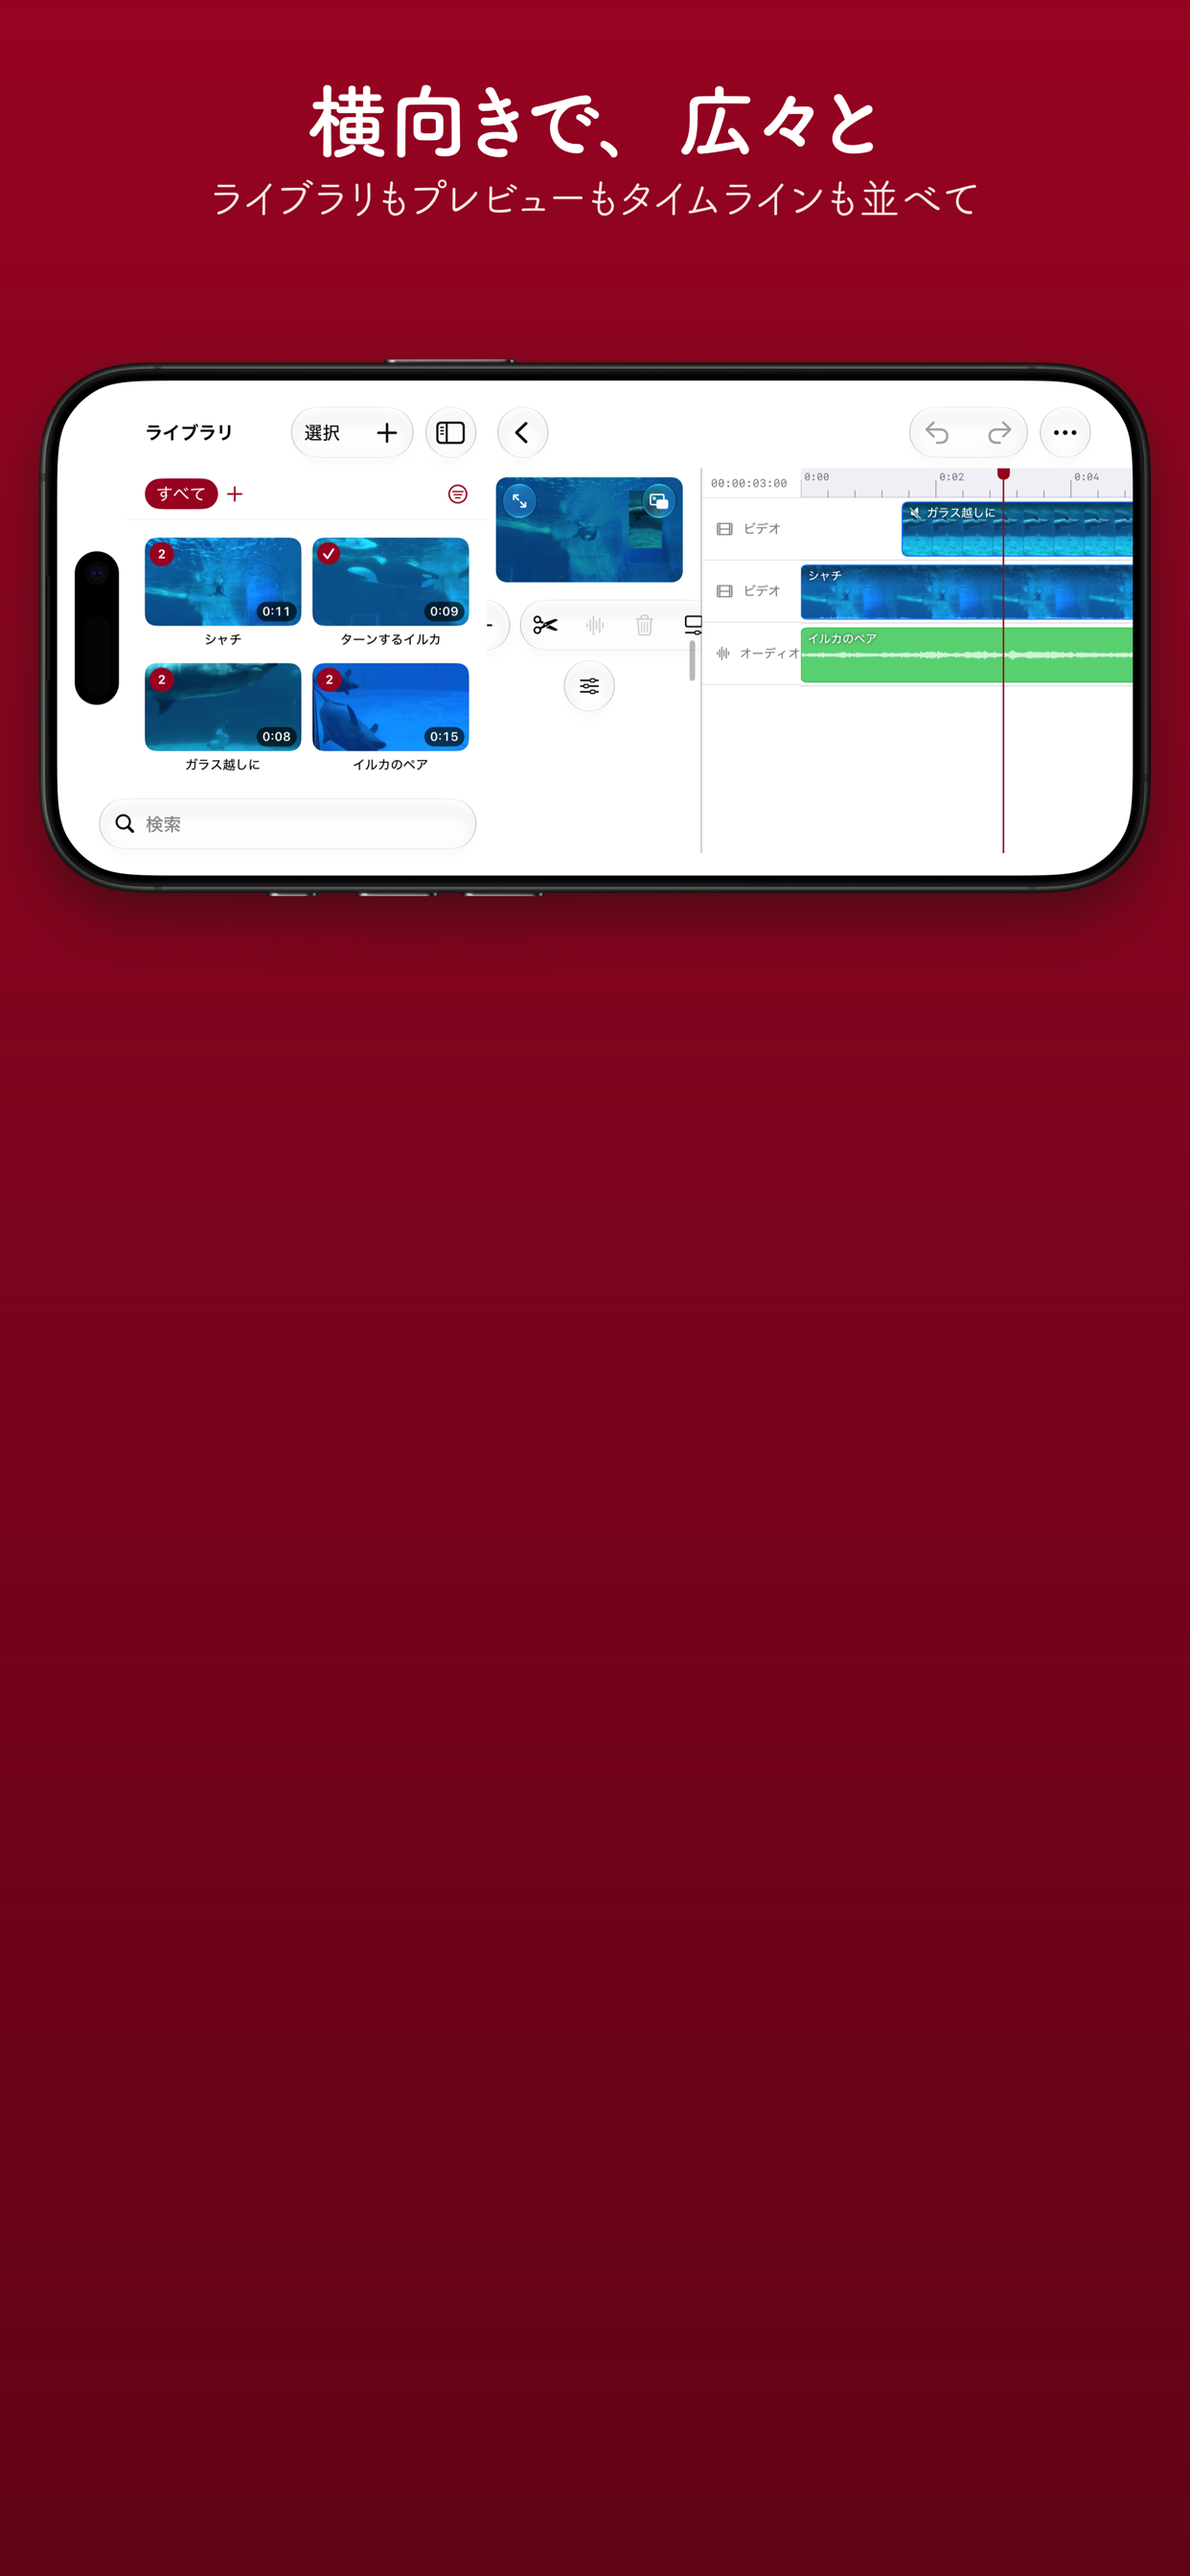
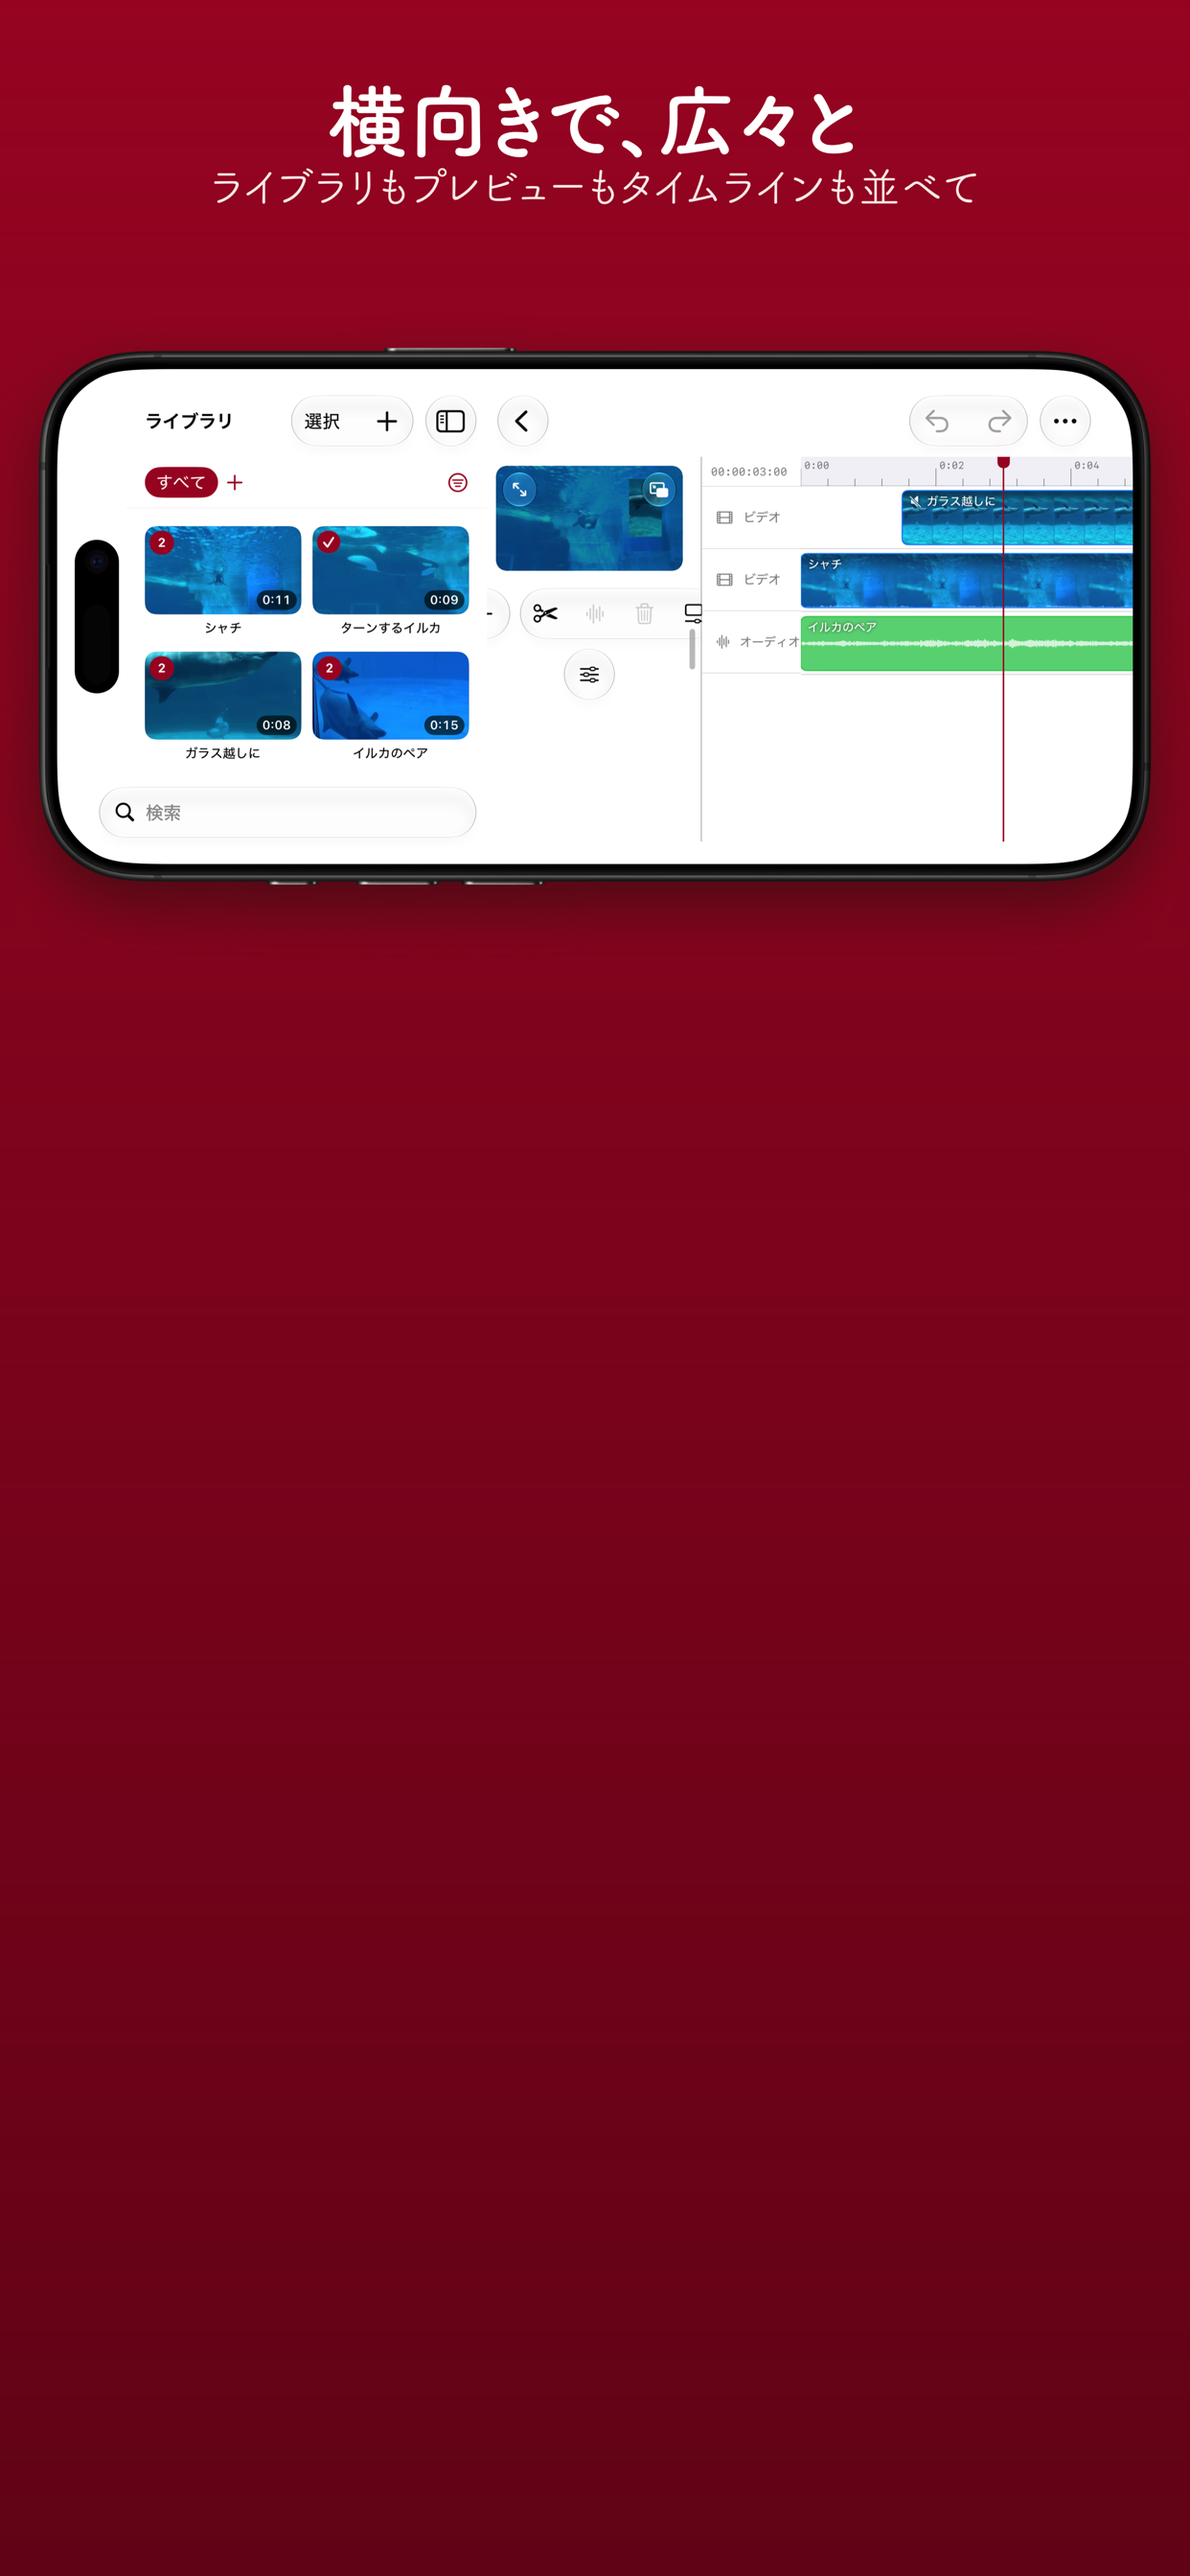
Set the Japanese captions in Tsukushi directly, as through a cascade list its commas stay full width

diff --git a/Assets/App Store/compose.swift b/Assets/App Store/compose.swift
@@ -153,47 +153,53 @@ let macScreenshots = [
 
 // MARK: - Text
 
-/// SF Pro Rounded. It has no Japanese, so that falls back to Tsukushi A Round
-/// Gothic, which unlike Hiragino Maru Gothic comes in a bold to match the header.
-/// Its kana are set proportionally: full-width, they look spaced out.
-func roundedFont(ofSize size: CGFloat, weight: NSFont.Weight) -> NSFont {
-    let system = NSFont.systemFont(ofSize: size, weight: weight).fontDescriptor
-    let japanese = NSFontDescriptor(
-        name: weight >= .semibold ? "TsukuARdGothic-Bold" : "TsukuARdGothic-Regular", size: size
-    ).addingAttributes([.featureSettings: [[
-        NSFontDescriptor.FeatureKey.typeIdentifier: kTextSpacingType,
-        .selectorIdentifier: kAltProportionalTextSelector,
-    ]]])
-    let rounded = (system.withDesign(.rounded) ?? system).addingAttributes([
-        .cascadeList: [japanese],
-    ])
-    return NSFont(descriptor: rounded, size: size) ?? NSFont.systemFont(ofSize: size, weight: weight)
+/// SF Pro Rounded, with its Japanese in Tsukushi A Round Gothic, which unlike
+/// Hiragino Maru Gothic comes in a bold to match the header. That's set on the
+/// Japanese runs itself rather than left to a cascade list: a font reached through
+/// one sets its kana proportionally but leaves 、 and 。 full width, with a gap
+/// after them. Full-width kana look spaced out too.
+func styled(_ text: String, size: CGFloat, weight: NSFont.Weight, color: NSColor) -> NSAttributedString {
+    let system = NSFont.systemFont(ofSize: size, weight: weight)
+    let rounded = system.fontDescriptor.withDesign(.rounded).flatMap { NSFont(descriptor: $0, size: size) } ?? system
+    let japanese = NSFont(
+        descriptor: NSFontDescriptor(
+            name: weight >= .semibold ? "TsukuARdGothic-Bold" : "TsukuARdGothic-Regular", size: size
+        ).addingAttributes([.featureSettings: [[
+            NSFontDescriptor.FeatureKey.typeIdentifier: kTextSpacingType,
+            .selectorIdentifier: kAltProportionalTextSelector,
+        ]]]),
+        size: size
+    ) ?? rounded
+    let string = NSMutableAttributedString(string: text, attributes: [.font: rounded, .foregroundColor: color])
+    for (offset, character) in text.utf16.enumerated() where isJapanese(character) {
+        string.addAttribute(.font, value: japanese, range: NSRange(location: offset, length: 1))
+    }
+    return string
+}
+
+/// Kana, kanji, and the punctuation and full-width forms set with them.
+func isJapanese(_ unit: UTF16.CodeUnit) -> Bool {
+    switch unit {
+    case 0x3000...0x30FF, 0x3400...0x9FFF, 0xFF00...0xFFEF: true
+    default: false
+    }
 }
 
 /// One line of text at the largest size up to `size` that fits `maxWidth`.
 struct Line {
-    let text: String
-    let attributes: [NSAttributedString.Key: Any]
-    let font: NSFont
+    let string: NSAttributedString
     let size: NSSize
 
     init(_ text: String, size: CGFloat, weight: NSFont.Weight, color: NSColor, maxWidth: CGFloat) {
         var fontSize = size
-        var font = roundedFont(ofSize: fontSize, weight: weight)
-        var attributes: [NSAttributedString.Key: Any] = [:]
-        var lineSize = NSSize.zero
-        while fontSize > 10 {
-            font = roundedFont(ofSize: fontSize, weight: weight)
-            attributes = [.font: font, .foregroundColor: color]
-            lineSize = (text as NSString).size(withAttributes: attributes)
-            if lineSize.width <= maxWidth { break }
+        var string = styled(text, size: fontSize, weight: weight, color: color)
+        while string.size().width > maxWidth, fontSize > 10 {
             fontSize -= 2
+            string = styled(text, size: fontSize, weight: weight, color: color)
         }
-        self.text = text
-        self.attributes = attributes
-        self.font = font
-        self.size = lineSize
-        (inkTop, inkBottom) = Line.inkInsets(of: text, attributes: attributes, size: lineSize)
+        self.string = string
+        self.size = string.size()
+        (inkTop, inkBottom) = Line.inkInsets(of: string, size: self.size)
     }
 
     /// How far below the top of the line box the glyphs actually start and end.
@@ -203,9 +209,7 @@ struct Line {
     /// Centering by font metrics leaves the text looking off, since the line box carries
     /// space above the capitals and below the baseline. So the line is rendered once and
     /// the rows its glyphs cover are measured.
-    private static func inkInsets(
-        of text: String, attributes: [NSAttributedString.Key: Any], size: NSSize
-    ) -> (CGFloat, CGFloat) {
+    private static func inkInsets(of string: NSAttributedString, size: NSSize) -> (CGFloat, CGFloat) {
         let width = Int(size.width.rounded(.up))
         let height = Int(size.height.rounded(.up))
         guard width > 0, height > 0, let bitmap = NSBitmapImageRep(
@@ -216,9 +220,9 @@ struct Line {
         bitmap.size = NSSize(width: width, height: height)
         NSGraphicsContext.saveGraphicsState()
         NSGraphicsContext.current = NSGraphicsContext(bitmapImageRep: bitmap)
-        var opaque = attributes
-        opaque[.foregroundColor] = NSColor.black
-        (text as NSString).draw(at: .zero, withAttributes: opaque)
+        let opaque = NSMutableAttributedString(attributedString: string)
+        opaque.addAttribute(.foregroundColor, value: NSColor.black, range: NSRange(location: 0, length: opaque.length))
+        opaque.draw(at: .zero)
         NSGraphicsContext.restoreGraphicsState()
 
         // Bitmap rows run top to bottom.
@@ -231,10 +235,7 @@ struct Line {
 
     /// Draws the line centered across `canvasWidth`, with the top of its line box at `top`.
     func draw(top: CGFloat, canvasWidth: CGFloat) {
-        (text as NSString).draw(
-            at: NSPoint(x: (canvasWidth - size.width) / 2, y: top - size.height),
-            withAttributes: attributes
-        )
+        string.draw(at: NSPoint(x: (canvasWidth - size.width) / 2, y: top - size.height))
     }
 }
 
